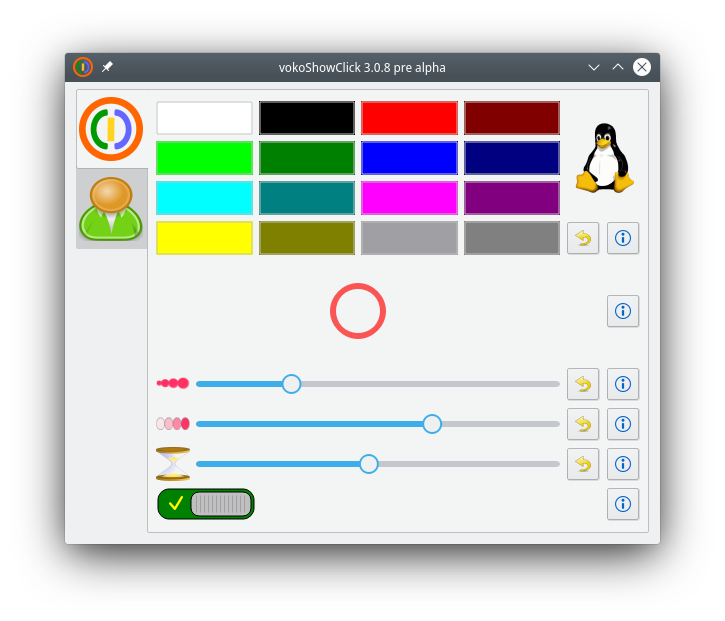
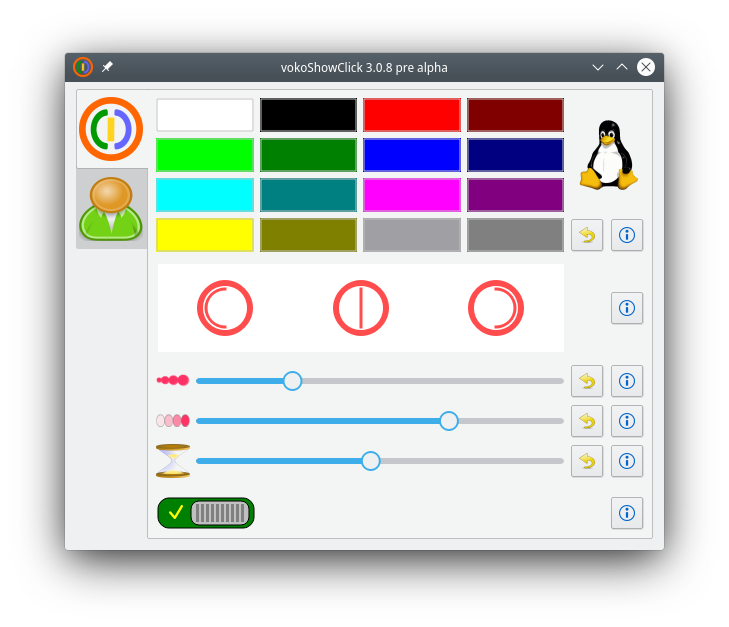
Preview mouse button

Changed region(s): [[0.091, 0.0918, 0.9103, 0.5507], [0.2124, 0.5813, 0.9103, 0.8873], [0.8193, 0.4589, 0.88, 0.5507]]

diff --git a/src/mainwindow.cpp b/src/mainwindow.cpp
@@ -159,82 +159,114 @@ void MainWindow::setColorButtons()
 
 void MainWindow::slot_vkPushButton_white()
 {
-    vkCircleWidget->setColor( Qt::white );
+    vkCircleWidget_1->setColor( Qt::white );
+    vkCircleWidget_2->setColor( Qt::white );
+    vkCircleWidget_3->setColor( Qt::white );
 }
 
 void MainWindow::slot_vkPushButton_black()
 {
-    vkCircleWidget->setColor( Qt::black );
+    vkCircleWidget_1->setColor( Qt::black );
+    vkCircleWidget_2->setColor( Qt::black );
+    vkCircleWidget_3->setColor( Qt::black );
 }
 
 void MainWindow::slot_vkPushButton_red()
 {
-    vkCircleWidget->setColor( Qt::red );
+    vkCircleWidget_1->setColor( Qt::red );
+    vkCircleWidget_2->setColor( Qt::red );
+    vkCircleWidget_3->setColor( Qt::red );
 }
 
 void MainWindow::slot_vkPushButton_darkRed()
 {
-    vkCircleWidget->setColor( Qt::darkRed );
+    vkCircleWidget_1->setColor( Qt::darkRed );
+    vkCircleWidget_2->setColor( Qt::darkRed );
+    vkCircleWidget_3->setColor( Qt::darkRed );
 }
 
 void MainWindow::slot_vkPushButton_green()
 {
-    vkCircleWidget->setColor( Qt::green );
+    vkCircleWidget_1->setColor( Qt::green );
+    vkCircleWidget_2->setColor( Qt::green );
+    vkCircleWidget_3->setColor( Qt::green );
 }
 
 void MainWindow::slot_vkPushButton_darkGreen()
 {
-    vkCircleWidget->setColor( Qt::darkGreen );
+    vkCircleWidget_1->setColor( Qt::darkGreen );
+    vkCircleWidget_2->setColor( Qt::darkGreen );
+    vkCircleWidget_3->setColor( Qt::darkGreen );
 }
 
 void MainWindow::slot_vkPushButton_blue()
 {
-    vkCircleWidget->setColor( Qt::blue );
+    vkCircleWidget_1->setColor( Qt::blue );
+    vkCircleWidget_2->setColor( Qt::blue );
+    vkCircleWidget_3->setColor( Qt::blue );
 }
 
 void MainWindow::slot_vkPushButton_darkBlue()
 {
-    vkCircleWidget->setColor( Qt::darkBlue );
+    vkCircleWidget_1->setColor( Qt::darkBlue );
+    vkCircleWidget_2->setColor( Qt::darkBlue );
+    vkCircleWidget_3->setColor( Qt::darkBlue );
 }
 
 void MainWindow::slot_vkPushButton_cyan()
 {
-    vkCircleWidget->setColor( Qt::cyan );
+    vkCircleWidget_1->setColor( Qt::cyan );
+    vkCircleWidget_2->setColor( Qt::cyan );
+    vkCircleWidget_3->setColor( Qt::cyan );
 }
 
 void MainWindow::slot_vkPushButton_darkCyan()
 {
-    vkCircleWidget->setColor( Qt::darkCyan );
+    vkCircleWidget_1->setColor( Qt::darkCyan );
+    vkCircleWidget_2->setColor( Qt::darkCyan );
+    vkCircleWidget_3->setColor( Qt::darkCyan );
 }
 
 void MainWindow::slot_vkPushButton_magenta()
 {
-    vkCircleWidget->setColor( Qt::magenta );
+    vkCircleWidget_1->setColor( Qt::magenta );
+    vkCircleWidget_2->setColor( Qt::magenta );
+    vkCircleWidget_3->setColor( Qt::magenta );
 }
 
 void MainWindow::slot_vkPushButton_darkMagenta()
 {
-    vkCircleWidget->setColor( Qt::darkMagenta );
+    vkCircleWidget_1->setColor( Qt::darkMagenta );
+    vkCircleWidget_2->setColor( Qt::darkMagenta );
+    vkCircleWidget_3->setColor( Qt::darkMagenta );
 }
 
 void MainWindow::slot_vkPushButton_yellow()
 {
-    vkCircleWidget->setColor( Qt::yellow );
+    vkCircleWidget_1->setColor( Qt::yellow );
+    vkCircleWidget_2->setColor( Qt::yellow );
+    vkCircleWidget_3->setColor( Qt::yellow );
 }
 
 void MainWindow::slot_vkPushButton_darkYellow()
 {
-    vkCircleWidget->setColor( Qt::darkYellow );
+    vkCircleWidget_1->setColor( Qt::darkYellow );
+    vkCircleWidget_2->setColor( Qt::darkYellow );
+    vkCircleWidget_3->setColor( Qt::darkYellow );
 }
 
 void MainWindow::slot_vkPushButton_gray()
 {
-    vkCircleWidget->setColor( Qt::gray );
+    vkCircleWidget_1->setColor( Qt::gray );
+    vkCircleWidget_2->setColor( Qt::gray );
+    vkCircleWidget_3->setColor( Qt::gray );
 }
 
 void MainWindow::slot_vkPushButton_darkGray()
 {
-    vkCircleWidget->setColor( Qt::darkGray );
+    vkCircleWidget_1->setColor( Qt::darkGray );
+    vkCircleWidget_2->setColor( Qt::darkGray );
+    vkCircleWidget_3->setColor( Qt::darkGray );
 }
 
 void MainWindow::setSpezialSlider()
@@ -305,7 +337,9 @@ void MainWindow::setToolButtonDefaultValues()
 
 void MainWindow::slot_toolButtonColorDefault()
 {
-    vkCircleWidget->setColor( Qt::red );
+    vkCircleWidget_1->setColor( Qt::red );
+    vkCircleWidget_2->setColor( Qt::red );
+    vkCircleWidget_3->setColor( Qt::red );
 }
 
 
@@ -336,7 +370,7 @@ void MainWindow::setMouseClick()
 void MainWindow::slot_mousePressed( int x, int y, QString mouseButton )
 {
     QvkAnimateWindow *animateWindow = new QvkAnimateWindow( this );
-    animateWindow->init( x, y, vkSpezialSliderShowtime->value() * 100, mouseButton, vkSpezialSliderCircle->value(), vkSpezialSliderOpacity->value(), vkCircleWidget->getColor() );
+    animateWindow->init( x, y, vkSpezialSliderShowtime->value() * 100, mouseButton, vkSpezialSliderCircle->value(), vkSpezialSliderOpacity->value(), vkCircleWidget_1->getColor() );
     animateWindow->setWindowFlags( Qt::FramelessWindowHint | Qt::WindowStaysOnTopHint | Qt::ToolTip );
     animateWindow->show();
 }
@@ -389,9 +423,18 @@ void MainWindow::slot_toolButtonAuthor()
 
 void MainWindow::setCircleWidget()
 {
-    vkCircleWidget = new QvkCircleWidget( ui->frame_3 );
-    vkCircleWidget->setObjectName( "widgetCircle" );
-    vkCircleWidget->show();
+    vkCircleWidget_1 = new QvkCircleWidget( ui->widget_1 );
+    vkCircleWidget_1->setObjectName( "widgetCircle_1" );
+    vkCircleWidget_1->show();
+
+    vkCircleWidget_2 = new QvkCircleWidget( ui->widget_2 );
+    vkCircleWidget_2->setObjectName( "widgetCircle_2" );
+    vkCircleWidget_2->show();
+
+    vkCircleWidget_3 = new QvkCircleWidget( ui->widget_3 );
+    vkCircleWidget_3->setObjectName( "widgetCircle_3" );
+    vkCircleWidget_3->show();
+
     connect( vkSpezialSliderCircle, SIGNAL( valueChanged( int ) ), this, SLOT( slot_valueChanged_SpezialSliderCircle( int ) ) );
     connect( vkSpezialSliderOpacity, SIGNAL( valueChanged( int ) ), this, SLOT( slot_valueChanged_SpezialSliderOpacity( int ) ) );
 }
@@ -399,14 +442,19 @@ void MainWindow::setCircleWidget()
 
 void MainWindow::slot_valueChanged_SpezialSliderCircle( int value )
 {
-    vkCircleWidget->setDiameter( value );
+    vkCircleWidget_1->setDiameter( value );
+    vkCircleWidget_2->setDiameter( value );
+    vkCircleWidget_3->setDiameter( value );
+
 }
 
 
 void MainWindow::slot_valueChanged_SpezialSliderOpacity( int value )
 {
     double value_1 = value;
-    vkCircleWidget->setOpacity( value_1 / 100 );
+    vkCircleWidget_1->setOpacity( value_1 / 100 );
+    vkCircleWidget_2->setOpacity( value_1 / 100 );
+    vkCircleWidget_3->setOpacity( value_1 / 100 );
 }
 
 

diff --git a/src/QvkCircleWidget.cpp b/src/QvkCircleWidget.cpp
@@ -41,22 +41,99 @@ void QvkCircleWidget::paintEvent( QPaintEvent *event )
 {
     Q_UNUSED(event);
 
-    QPainter painter;
-    painter.begin( this );
-    painter.setRenderHints( QPainter::Antialiasing, true );
 
-    qreal penWith = 6;
-    QPen pen;
-    pen.setWidthF( penWith );
-    pen.setColor( pointerColor );
-    pen.setStyle( Qt::SolidLine );
-    painter.setPen( pen );
-    painter.setBrush( Qt::NoBrush );
-    painter.setOpacity( pointerOpacity );
-    resize( parentWidget->width(), parentWidget->height());
-    painter.drawEllipse( parentWidget->width()/2-diameter/2, parentWidget->height()/2-diameter/2, diameter, diameter );
+    QList<QWidget *> listWidget = parentWidget->findChildren<QWidget *>();
 
-    painter.end();
+    for( int i = 0; i < listWidget.count(); i++ )
+    {
+        if ( listWidget.at( i )->objectName() == "widgetCircle_1" )
+        {
+            QPainter painter;
+            painter.begin( this );
+            painter.setRenderHints( QPainter::Antialiasing, true );
+
+            painter.fillRect( 0, 0, width(), height(), Qt::white );
+
+            qreal penWith = 6;
+            QPen pen;
+            pen.setWidthF( penWith );
+            pen.setColor( pointerColor );
+            pen.setStyle( Qt::SolidLine );
+            painter.setPen( pen );
+            painter.setBrush( Qt::NoBrush );
+            painter.setOpacity( pointerOpacity );
+            resize( parentWidget->width(), parentWidget->height());
+            painter.drawEllipse( parentWidget->width()/2-diameter/2, parentWidget->height()/2-diameter/2, diameter, diameter );
+
+            pen.setWidthF( 3.0 );
+            painter.setPen( pen );
+            QRectF rectF( width()/2 - diameter/2 + penWith, height()/2 - diameter/2 + penWith, diameter-2*penWith, diameter-2*penWith );
+            int startAngle = 90 * 16;
+            int spanAngle = 180 * 16;
+            painter.drawArc( rectF, startAngle, spanAngle );
+
+            painter.end();
+        }
+
+        if ( listWidget.at( i )->objectName() == "widgetCircle_2" )
+        {
+            QPainter painter;
+            painter.begin( this );
+            painter.setRenderHints( QPainter::Antialiasing, true );
+
+            painter.fillRect( 0, 0, width(), height(), Qt::white );
+
+            qreal penWith = 6;
+            QPen pen;
+            pen.setWidthF( penWith );
+            pen.setColor( pointerColor );
+            pen.setStyle( Qt::SolidLine );
+            painter.setPen( pen );
+            painter.setBrush( Qt::NoBrush );
+            painter.setOpacity( pointerOpacity );
+            resize( parentWidget->width(), parentWidget->height());
+            painter.drawEllipse( parentWidget->width()/2-diameter/2, parentWidget->height()/2-diameter/2, diameter, diameter );
+
+            pen.setWidthF( 3.0 );
+            painter.setPen( pen );
+            QLineF line( width()/2, height()/2 - diameter/2 + penWith , width()/2, height()/2 + diameter/2 - penWith );
+            painter.drawLine( line );
+
+            painter.end();
+       }
+
+        if ( listWidget.at( i )->objectName() == "widgetCircle_3" )
+        {
+            QPainter painter;
+            painter.begin( this );
+            painter.setRenderHints( QPainter::Antialiasing, true );
+
+            painter.fillRect( 0, 0, width(), height(), Qt::white );
+
+            qreal penWith = 6;
+            QPen pen;
+            pen.setWidthF( penWith );
+            pen.setColor( pointerColor );
+            pen.setStyle( Qt::SolidLine );
+            painter.setPen( pen );
+            painter.setBrush( Qt::NoBrush );
+            painter.setOpacity( pointerOpacity );
+            resize( parentWidget->width(), parentWidget->height());
+            painter.drawEllipse( parentWidget->width()/2-diameter/2, parentWidget->height()/2-diameter/2, diameter, diameter );
+
+            pen.setWidthF( 3.0 );
+            painter.setPen( pen );
+            QRectF rectF( width()/2 - diameter/2 + penWith, height()/2 - diameter/2 + penWith, diameter-2*penWith, diameter-2*penWith );
+            int startAngle = -90 * 16;
+            int spanAngle = 180 * 16;
+            painter.drawArc( rectF, startAngle, spanAngle );
+
+            painter.end();
+       }
+
+
+
+    }
 }
 
 

diff --git a/src/QvkAnimateWindow.cpp b/src/QvkAnimateWindow.cpp
@@ -100,7 +100,7 @@ void QvkAnimateWindow::paintEvent( QPaintEvent *event )
     painterPixmap.setOpacity( opacity );
     painterPixmap.drawEllipse( width()/2-diameter/2, height()/2-diameter/2, diameter, diameter );
 
-    // Paint Button
+    // Paint pressed Button
     pen.setStyle( Qt::SolidLine );
     pen.setWidthF( 3.0 );
     painterPixmap.setPen( pen );

diff --git a/src/mainwindow.h b/src/mainwindow.h
@@ -33,7 +33,9 @@ private:
     QvkLicenses *vkLicenses;
     QvkGlobalMouse *vkGlobalMouse;
     QvkSpezialCheckbox *vkSpezialCheckbox;
-    QvkCircleWidget *vkCircleWidget;
+    QvkCircleWidget *vkCircleWidget_1;
+    QvkCircleWidget *vkCircleWidget_2;
+    QvkCircleWidget *vkCircleWidget_3;
     QvkHelp *vkHelp;
     QvkSettings *vkSettings;
 
